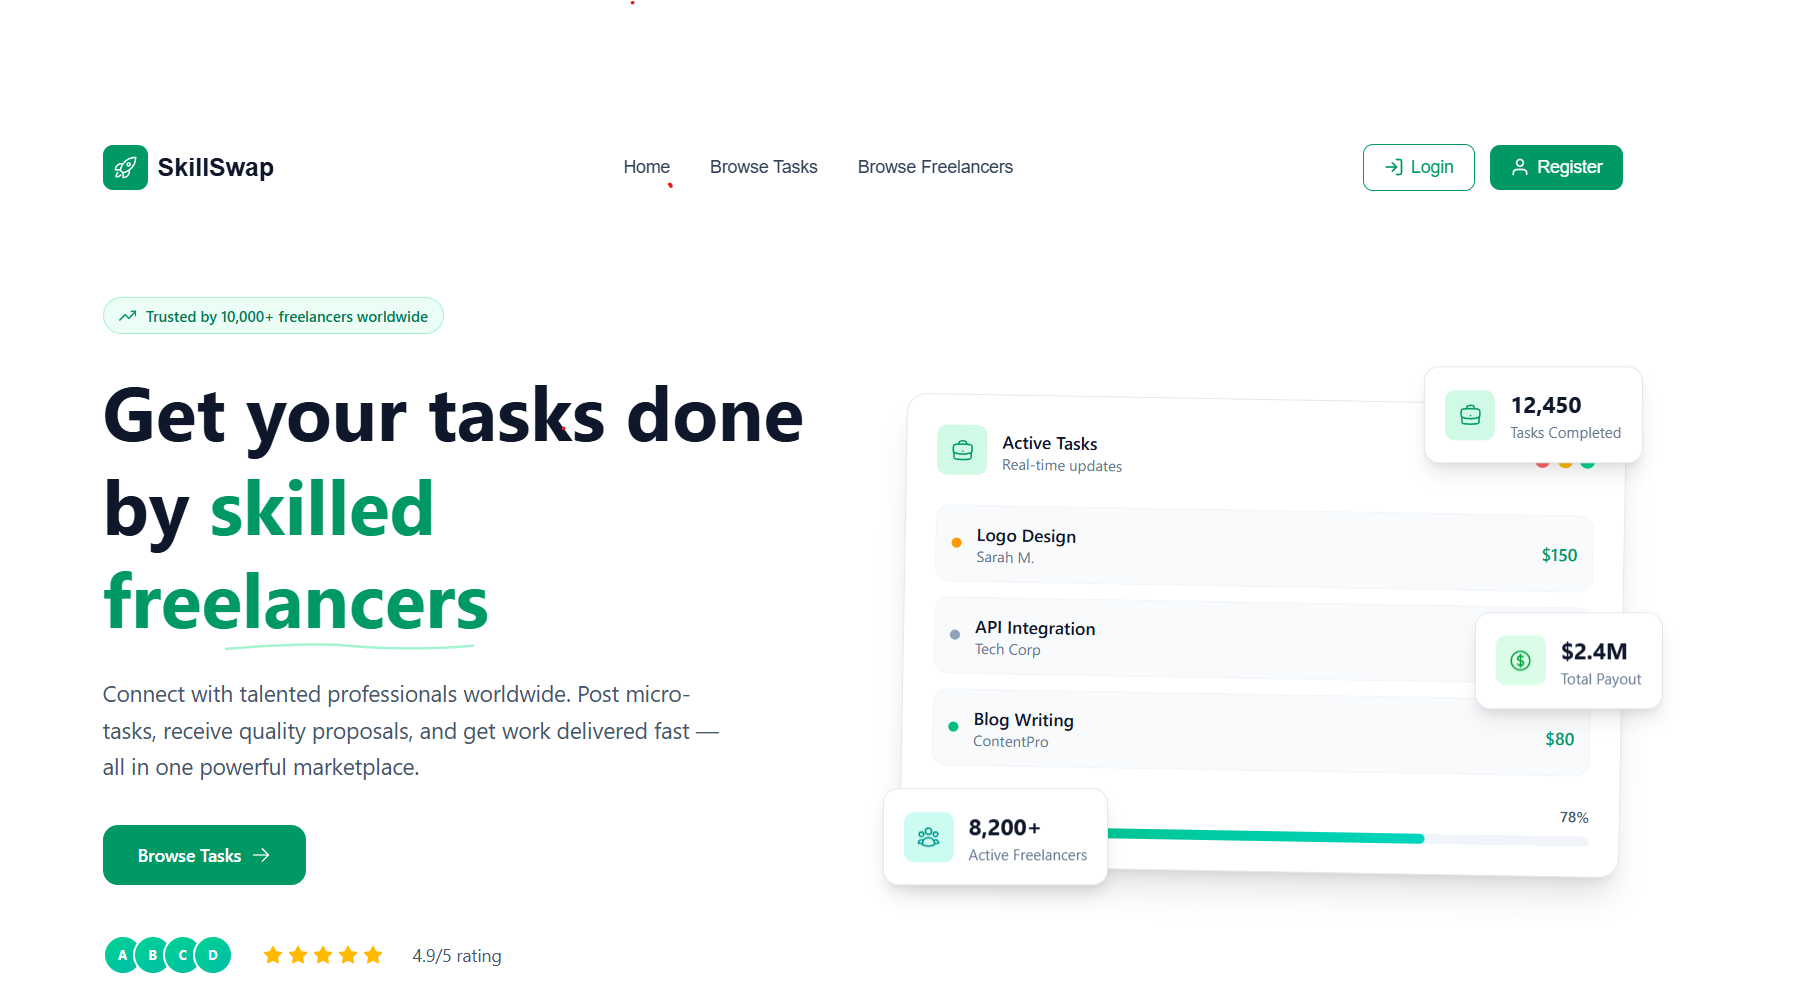
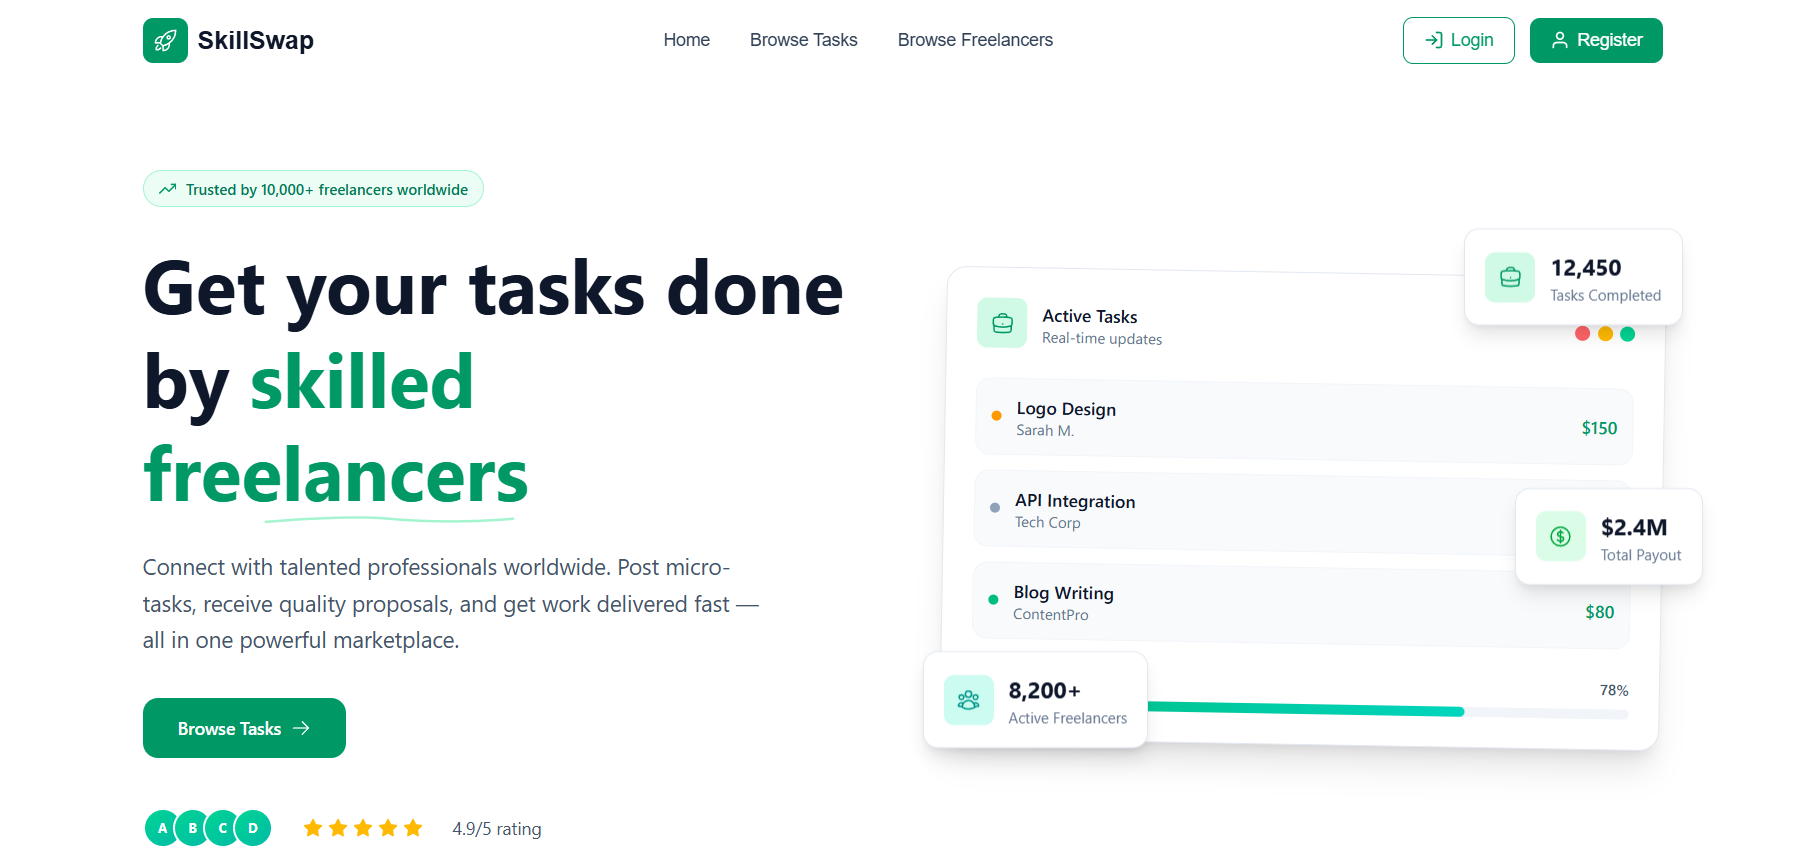
project sections fixed

diff --git a/src/components/Projects.tsx b/src/components/Projects.tsx
@@ -3,7 +3,7 @@
 import React from "react";
 import Image from "next/image";
 import { motion } from "framer-motion";
-import { ExternalLink, Globe } from "lucide-react";
+import { ArrowUpRight } from "lucide-react";
 import { FaGithub } from "react-icons/fa6";
 
 export default function Projects() {
@@ -23,7 +23,6 @@ export default function Projects() {
         "Stripe",
         "BetterAuth",
         "Tailwind CSS",
-        "JWT",
       ],
     },
     {
@@ -41,7 +40,6 @@ export default function Projects() {
         "BetterAuth",
         "HeroUI",
         "Tailwind CSS",
-        "JWT",
       ],
     },
     {
@@ -64,116 +62,121 @@ export default function Projects() {
     {
       title: "DigiTools Platform - React Web App with Local JSON Data",
       description:
-        "DigiTools Platform is a modern web application built using React, Tailwind CSS, and daisyUI. It allows users to browse digital products add them to a cart and remove items as needed. Product data is fetched from a local JSON file /public/data.json using the Fetch API along with use() hook within a component. The application is fully responsive across devices and focuses on clean UI and core React functionality for state management and user interaction.",
+        "DigiTools Platform is a modern web application built using React, Tailwind CSS, and daisyUI. It allows users to browse digital products add them to a cart and remove items as needed. Product data is fetched from a local JSON file using the Fetch API along with use() hook within a component.",
       image: "/asset/project3.png",
       github: "https://github.com/Kawsar37/digi-tools-platform",
-      live: "https://digi-tools-platform-by-kawsar.netlify.app", // No live site for native Android, only GitHub
-      tags: [
-        "React.js",
-        "Tailwind CSS",
-        "daisyUI",
-        "Fetch API",
-        "JSON Data",
-        "Responsive Design",
-        "State Management",
-      ],
+      live: "https://digi-tools-platform-by-kawsar.netlify.app",
+      tags: ["React.js", "Tailwind CSS", "daisyUI", "Fetch API", "JSON Data"],
     },
   ];
 
   return (
     <section
       id="projects"
-      className="py-20 px-4 md:px-8 border-b border-border bg-background transition-colors"
+      className="py-32 px-4 md:px-8 bg-black border-b border-zinc-800 text-white"
     >
-      <div className="max-w-4xl mx-auto w-full">
-        {/* Section Header */}
-        <div className="mb-12">
-          <p className="text-xs uppercase tracking-widest text-text-muted font-bold mb-2">
-            Featured Work
+      <div className="max-w-6xl mx-auto w-full">
+        {/* Modern Minimalistic Header */}
+        <div className="mb-20 flex flex-col md:flex-row md:items-end justify-between gap-4">
+          <div>
+            <span className="text-xs uppercase tracking-widest text-zinc-500 font-semibold block mb-3"></span>
+            <h2 className="text-4xl md:text-5xl font-black tracking-tight bg-gradient-to-r from-white to-zinc-400 bg-clip-text text-transparent">
+              Featured Projects.
+            </h2>
+          </div>
+          <p className="text-sm text-zinc-400 max-w-xs font-medium">
+            A digital showroom of full-stack systems, fluid interfaces, and
+            performance-tuned software architectures.
           </p>
-          <h2 className="text-3xl md:text-4xl font-extrabold tracking-tight">
-            Projects
-          </h2>
         </div>
 
-        {/* Projects List */}
-        <div className="space-y-12">
+        {/* Modern Project Column List */}
+        <div className="space-y-32">
           {projectList.map((project, idx) => (
             <motion.div
               key={idx}
-              initial={{ opacity: 0, y: 30 }}
+              initial={{ opacity: 0, y: 50 }}
               whileInView={{ opacity: 1, y: 0 }}
               viewport={{ once: true, margin: "-100px" }}
-              transition={{ duration: 0.6, ease: "easeOut" }}
-              className="bg-card-bg border border-card-border rounded-3xl p-6 md:p-8 flex flex-col md:grid md:grid-cols-12 gap-6 md:gap-8 hover:border-foreground/20 transition-all duration-300 group hover:shadow-xl"
+              transition={{ duration: 0.8, ease: [0.16, 1, 0.3, 1] }}
+              className="relative grid grid-cols-1 lg:grid-cols-12 gap-8 items-center group"
             >
-              {/* Left Column: Image wrapper */}
-              <div className="md:col-span-5 relative w-full aspect-[4/3] rounded-2xl overflow-hidden bg-background border border-card-border/50">
-                <Image
-                  src={project.image}
-                  alt={project.title}
-                  fill
-                  className="object-cover transition-transform duration-700 group-hover:scale-105"
-                  sizes="(max-width: 768px) 100vw, 300px"
-                />
-              </div>
-
-              {/* Right Column: Information */}
-              <div className="md:col-span-7 flex flex-col justify-between space-y-4">
-                <div className="space-y-3">
-                  <div className="flex items-start justify-between">
-                    <h3 className="text-xl font-bold text-foreground leading-tight group-hover:text-accent transition-colors">
-                      {project.title}
-                    </h3>
-                  </div>
-                  <p className="text-sm text-text-muted leading-relaxed">
-                    {project.description}
-                  </p>
+              {/* 1. Cinematic Screen Preview Container */}
+              <div className="lg:col-span-7 relative w-full aspect-[16/10] bg-zinc-900 rounded-2xl overflow-hidden border border-zinc-800/80 shadow-2xl transition-all duration-500 group-hover:border-zinc-700/50">
+                {/* Simulated Window Controls (Adds high-end flair) */}
+                <div className="absolute top-3 left-4 flex gap-1.5 z-10 opacity-60">
+                  <span className="w-2.5 h-2.5 rounded-full bg-zinc-700" />
+                  <span className="w-2.5 h-2.5 rounded-full bg-zinc-700" />
+                  <span className="w-2.5 h-2.5 rounded-full bg-zinc-700" />
                 </div>
 
-                {/* Links */}
-                <div className="flex flex-wrap items-center gap-4 text-sm font-semibold">
-                  <a
-                    href={project.github}
-                    target="_blank"
-                    rel="noopener noreferrer"
-                    className="flex items-center space-x-1.5 text-text-muted hover:text-foreground transition-colors group/link"
-                  >
-                    <FaGithub size={16} />
-                    <span>GitHub Code</span>
-                    <ExternalLink
-                      size={12}
-                      className="opacity-0 group-hover/link:opacity-100 transition-opacity"
+                <div className="w-full h-full pt-8 p-1 md:p-2 bg-gradient-to-b from-zinc-900 via-zinc-950 to-black">
+                  <div className="relative w-full h-full rounded-lg overflow-hidden shadow-inner">
+                    <Image
+                      src={project.image}
+                      alt={project.title}
+                      fill
+                      priority={idx === 0}
+                      className="object-cover object-top transition-transform duration-700 ease-out group-hover:scale-[1.04]"
+                      sizes="(max-width: 1024px) 100vw, 700px"
                     />
-                  </a>
+                  </div>
+                </div>
+              </div>
 
+              {/* 2. Text Information Stack */}
+              <div className="lg:col-span-5 flex flex-col space-y-5 lg:pl-4">
+                {/* Tech Pills */}
+                <div className="flex flex-wrap gap-1.5">
+                  {project.tags.map((tag) => (
+                    <span
+                      key={tag}
+                      className="text-[10px] font-bold tracking-wider uppercase px-2.5 py-0.5 rounded-md bg-zinc-900 text-zinc-400 border border-zinc-800/60"
+                    >
+                      {tag}
+                    </span>
+                  ))}
+                </div>
+
+                {/* Project Title */}
+                <h3 className="text-2xl md:text-3xl font-bold tracking-tight text-white leading-tight">
+                  {project.title.split(" - ")[0]}
+                  <span className="block text-sm font-medium text-zinc-500 mt-1">
+                    {project.title.split(" - ")[1]}
+                  </span>
+                </h3>
+
+                {/* Description */}
+                <p className="text-sm text-zinc-400 leading-relaxed font-normal">
+                  {project.description}
+                </p>
+
+                {/* Interactive Modern Actions */}
+                <div className="flex items-center gap-4 pt-2">
                   {project.live && (
                     <a
                       href={project.live}
                       target="_blank"
                       rel="noopener noreferrer"
-                      className="flex items-center space-x-1.5 text-text-muted hover:text-foreground transition-colors group/link"
+                      className="inline-flex items-center gap-2 px-5 py-2.5 text-xs font-bold uppercase tracking-wider rounded-xl bg-white text-black hover:bg-zinc-200 transition-all duration-300 shadow-lg group/btn"
                     >
-                      <Globe size={16} />
-                      <span>Live Site</span>
-                      <ExternalLink
-                        size={12}
-                        className="opacity-0 group-hover/link:opacity-100 transition-opacity"
+                      <span>Explore Project</span>
+                      <ArrowUpRight
+                        size={14}
+                        className="transition-transform duration-300 group-hover/btn:translate-x-0.5 group-hover/btn:-translate-y-0.5"
                       />
                     </a>
                   )}
-                </div>
 
-                {/* Tech Pills */}
-                <div className="flex flex-wrap gap-2 pt-2">
-                  {project.tags.map((tag) => (
-                    <span
-                      key={tag}
-                      className="text-xs font-semibold px-3 py-1 rounded-full bg-pill-bg text-pill-text border border-card-border hover:border-foreground/10 transition-colors"
-                    >
-                      {tag}
-                    </span>
-                  ))}
+                  <a
+                    href={project.github}
+                    target="_blank"
+                    rel="noopener noreferrer"
+                    className="inline-flex items-center gap-2 px-4 py-2.5 text-xs font-bold uppercase tracking-wider rounded-xl bg-zinc-900 border border-zinc-800 hover:bg-zinc-800 hover:text-white transition-all duration-300 text-zinc-300"
+                  >
+                    <FaGithub size={15} />
+                    <span>Source Code</span>
+                  </a>
                 </div>
               </div>
             </motion.div>
